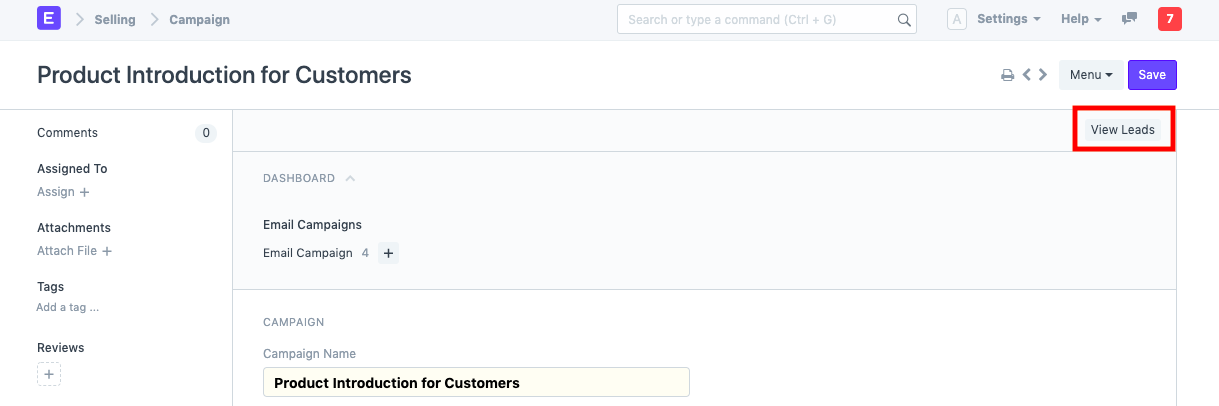
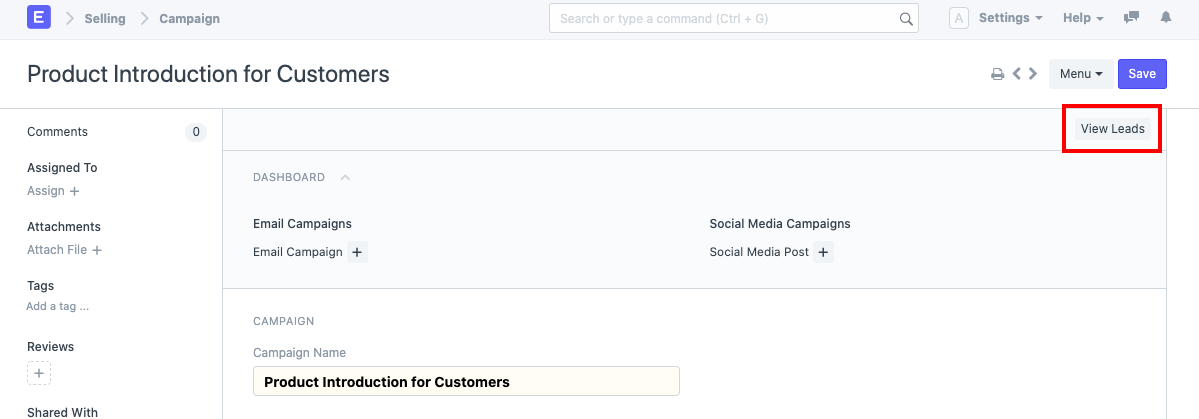
Social Media Post Documentation

diff --git a/erpnext_documentation/www/docs/user/manual/en/CRM/index.html b/erpnext_documentation/www/docs/user/manual/en/CRM/index.html
@@ -70,6 +70,11 @@
 				"content": "Appointment document type can be used to schedule and manage interaction with a lead or opportunity.",
 				"link": "/docs/user/manual/en/CRM/appointment",
 				"title": "Appointment"
+			},
+			{
+				"content": "Social Media Post is used to create and schedule post for LinkedIn and Twitter.",
+				"link": "/docs/user/manual/en/CRM/social-media-post",
+				"title": "Social Media Post"
 			}
 		],
 		"title": "Setup"

diff --git a/erpnext_documentation/www/docs/user/manual/en/CRM/linkedin-settings.md b/erpnext_documentation/www/docs/user/manual/en/CRM/linkedin-settings.md
@@ -1,0 +1,52 @@
+---
+title: LinkedIn Settings
+add_breadcrumbs: 1
+show_sidebar: 0
+
+metatags:
+ description: LinkedIn Settings for Social Media Post
+ keywords: Social Media Post Scheduling, CRM, frappe, erpnext new features, erp, open source erp, free erp, security
+---
+
+# LinkedIn Settings
+
+LinkedIn related settings like OAuth can be configured here. ERPNext needs access to the API through which the post is shared and achieved using OAuth 2.0 Authentication Protocol.
+
+## 1. How to set up LinkedIn Developer App
+
+You must have LinkedIn Developer App for your company. ERPNext interacts with this App for sharing the post. 
+
+### 1.1 Create LinkedIn Developer App
+
+Create App by link `https://www.linkedin.com/developers` fill all the details and verify it. And that App has the following products.
+
+1. Share on LinkedIn
+2. Sign In with LinkedIn
+3. Marketing Developer Platform
+![LinkedIn Developer App Product](/docs/assets/img/crm/linkedin-dev-products.png)
+
+### 1.2 Configure Redirect URLs:
+
+1. Goto your LinkedIn Developers App then **Auth** tab.
+2. In **OAuth 2.0 settings** section add **Redirect URLs**:
+`https://{yoursite}/?cmd=erpnext.crm.doctype.linkedin_settings.linkedin_settings.callback`
+3. Click **Update** to make changes. 
+![LinkedIn Redirect URL](/docs/assets/img/crm/linkedin-redirect-urls.gif)
+
+## 2. How to set up LinkedIn Settings
+
+![LinkedIn Settings](/docs/assets/img/crm/linkedin-settings.png)
+
+### Company ID
+You get the Company ID from your LinkedIn Company URL.
+![LinkedIn Company ID](/docs/assets/img/crm/linkedin-company-id.png)
+
+### Consumer Key and Consumer Secret
+You get **Consumer Key** and **Consumer Secret** from your LinkedIn Developer account go to:
+> `https://www.linkedin.com/developers/` > My Apps > `{Your App}` > Auth
+
+![LinkedIn Client](/docs/assets/img/crm/linkedin-client.png)
+
+Once you save the doc by filling **Company ID**, **Consumer Key**, and **Consumer Secret** it will redirect to LinkedIn Sign In page by providing valid LinkedIn credentials and clicking Allow, the member approves your application's request to access their member data and interact with LinkedIn on their behalf. 
+![Authorize LinkedIn](/docs/assets/img/crm/authorize-linkedin.jpg)
+

diff --git a/erpnext_documentation/www/docs/user/manual/en/CRM/twitter-settings.md b/erpnext_documentation/www/docs/user/manual/en/CRM/twitter-settings.md
@@ -1,0 +1,46 @@
+---
+title: Twitter Settings
+add_breadcrumbs: 1
+show_sidebar: 0
+
+metatags:
+ description: Twitter Settings for Social Media Post
+ keywords: Social Media Post Scheduling, CRM, frappe, erpnext new features, erp, open source erp, free erp, security
+---
+
+# Twitter Settings
+
+Twitter related settings like OAuth can be configured here. ERPNext needs access to the API through which the post is shared and achieved using OAuth 2.0 Authentication Protocol.
+
+## 1. How to set up Twitter App
+
+You must have Twitter App for your company. ERPNext interacts with this App for sharing Tweet. 
+
+### 1.1 Create LinkedIn Developer App
+
+Create App by link `https://developer.twitter.com/` and that App have **Read and write** Access permission.
+![Twitter App Permission](/docs/assets/img/crm/twitter-app-permission.png)
+
+### 1.2. Configure Callback URL
+1. Select your App and go to **App Details**.
+2. Then go to **Edit** and click **Edit Details**.
+3. Add your website URL in **Callback URLs** like `https://erpnext.com`.
+4. Click **Save** to make changes. 
+
+![Twitter App Callback URL](/docs/assets/img/crm/twitter-callback-url.png)
+
+
+## 2. How to set up Twitter Settings
+
+![Twitter Settings](/docs/assets/img/crm/twitter-settings.png)
+
+### 2.1 API Key and API Key Secret
+
+You get **API Key** and **API Key Secret** from your Twitter Developer account go to:
+> `https://developer.twitter.com/` > My Apps > `{Your App}` > Keys and tokens
+
+![Twitter Keys Tokens](/docs/assets/img/crm/twitter-key-token.png)
+
+Once you save the doc by filling **API Key** and **API Key Secret** it will redirect to Twitter Sign In page by providing valid Twitter credentials and clicking **Authorize app**, the member approves your application's request to access their member data and interact with Twitter.
+![Twitter Authorize App](/docs/assets/img/crm/twitter-authorize-app.png)
+

diff --git a/erpnext_documentation/www/docs/user/manual/en/CRM/social-media-post.md b/erpnext_documentation/www/docs/user/manual/en/CRM/social-media-post.md
@@ -1,0 +1,45 @@
+---
+title: Social Media Post
+add_breadcrumbs: 1
+show_sidebar: 0
+
+metatags:
+ description: Creating Social Media Post and Scheduling for CRM in ERPNext
+ keywords: Social Media Post Scheduling, CRM, frappe, erpnext new features, erp, open source erp, free erp, security
+---
+
+# Social Media Post
+
+Social Media Post is used to create and schedule the post for LinkedIn and Twitter, it can be also linked with a [Campaign](docs/user/manual/en/CRM/campaign).
+
+To access Social Media Post, go to:
+> Home > CRM > Settings > Social Media Post
+
+## 1. Prerequisites
+
+1. [LinkedIn Settings](/docs/user/manual/en/CRM/linkedin-settings)
+2. [Twitter Settings](/docs/user/manual/en/CRM/twitter-settings)
+
+## 2. How to create an Social Media Post
+
+1. Go to Social Media Post list, click on **New**.
+2. Select **Campaign** if any otherwise leave it blank.
+3. Choose the **Scheduled Time** of the post to be published.
+4. Select the social media platforms to which post has to be published.
+5. Enter content for Twitter and LinkedIn.
+6. Attach image(Optional).
+7. Save and Submit.
+![New Social Media Post](/docs/assets/img/crm/social-media-post.png)
+
+## 3. Features
+
+### 3.1 Immediate Post
+Users can also immediately post just after submitting a Social Media Post by clicking the '**Post Now**' button.
+![Post Now](/docs/assets/img/crm/post-now.png)
+
+### 3.2 Reschedule
+Users can change the Scheduled Time of the Social Media Post. And it can be rescheduled in case any Error occurred at runtime by changing the '**Scheduled Time**' of the Social Media Post document.
+![Reschedule Post](/docs/assets/img/crm/reschedule-post.png)
+
+## 4. Related Topics
+1. [Campaign](docs/user/manual/en/CRM/campaign)

diff --git a/erpnext_documentation/www/docs/user/manual/en/CRM/campaign.md b/erpnext_documentation/www/docs/user/manual/en/CRM/campaign.md
@@ -55,7 +55,7 @@ You will have to set up a schedule for the campaign. Click on 'Add Row' to add a
 
 ### 2.4 Dashboard
 
-The Campaign dashboard shows you all the Email Campaigns linked to the Campaign. You can also create a new Email Campaign from here.
+The Campaign dashboard shows you all the Email Campaigns and Social Media Post linked to the Campaign. You can also create a new Email Campaign and Social Media Post from here.
 
 <img class="screenshot" alt="Campaign Dashboard" src="{{docs_base_url}}/assets/img/crm/email-campaigns-from-dash.png">
 
